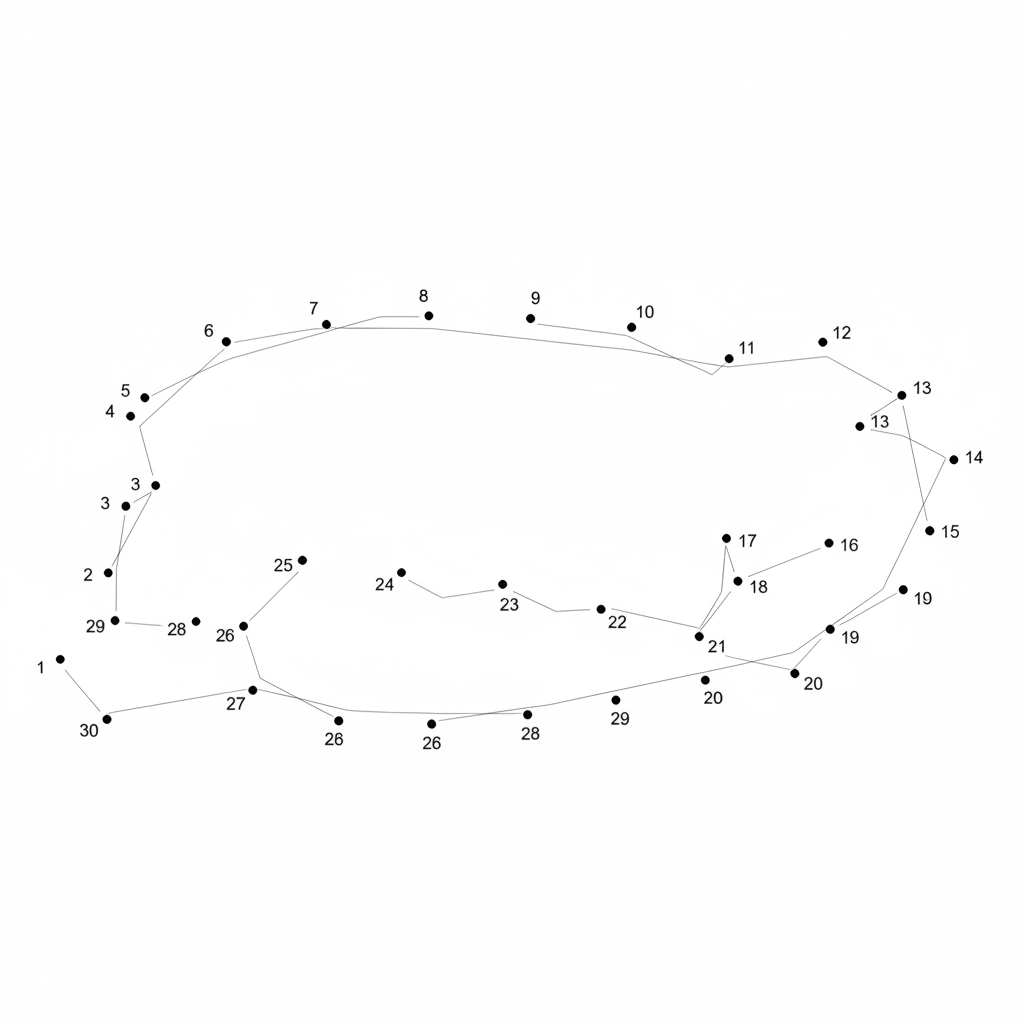
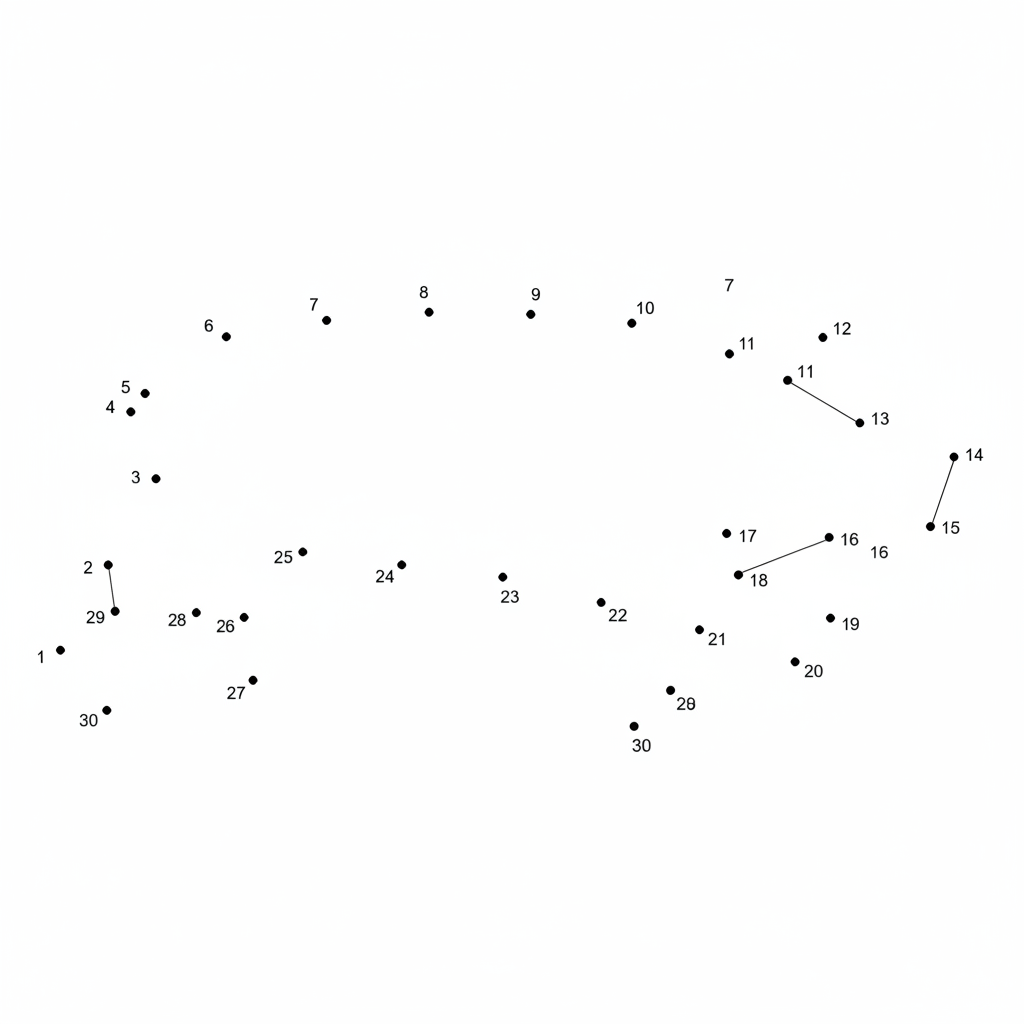
generate connect dot loop

diff --git a/nano_banana/generate.py b/nano_banana/generate.py
@@ -1,9 +1,51 @@
 from google import genai
+from IPython.display import display, Markdown, Image
+from google import genai
+import os
+import PIL.Image
+from io import BytesIO
+from IPython.display import display
+from google.genai import types
+from PIL import Image
+from io import BytesIO
+import time
+import json
 
-# The client gets the API key from the environment variable `GEMINI_API_KEY`.
+
 client = genai.Client()
 
-response = client.models.generate_content(
-    model="gemini-2.5-flash-image-preview", contents="Hi Gemini!"
-)
-print(response.text)
+prompt = "Connect each numbered dot in the image with thin lines in numerical order. You should only change the image by overlaying lines on top of the image."
+
+image_dirs = ["/Users/log/Github/sketchvlm/datasets/connect_dots_dataset/random_source", "/Users/log/Github/sketchvlm/datasets/connect_dots_dataset/outlines_source", "/Users/log/Github/sketchvlm/datasets/connect_dots_dataset/worksheets_source"]
+
+results = []
+for image_dir in image_dirs:
+    for image_path in os.listdir(image_dir):
+        if image_path.endswith(".png"):
+            image = Image.open(os.path.join(image_dir, image_path))
+            original_filename = os.path.splitext(os.path.basename(image_path))[0]
+
+            response = client.models.generate_content(
+                model="gemini-2.5-flash-image-preview",
+                contents=[prompt, image],
+            )
+
+            for part in response.candidates[0].content.parts:
+                if part.text is not None:
+                    print(part.text)
+                elif part.inline_data is not None:
+                    output_image = Image.open(BytesIO(part.inline_data.data))
+                    output_filename = f"/Users/log/Github/sketchvlm/nano_generated/connect_dots_nano/{original_filename}_nano_generated.png"
+                    output_image.save(output_filename)
+                    # print(f"Saved as: {output_filename}")
+
+            results.append({
+                "original_filename": original_filename,
+                "output_filename": output_filename,
+                "timestamp": time.time(),
+                "prompt": prompt,
+            })
+
+
+with open("/Users/log/Github/sketchvlm/nano_generated/connect_dots_nano/results.json", "w") as f:
+    json.dump(results, f)
